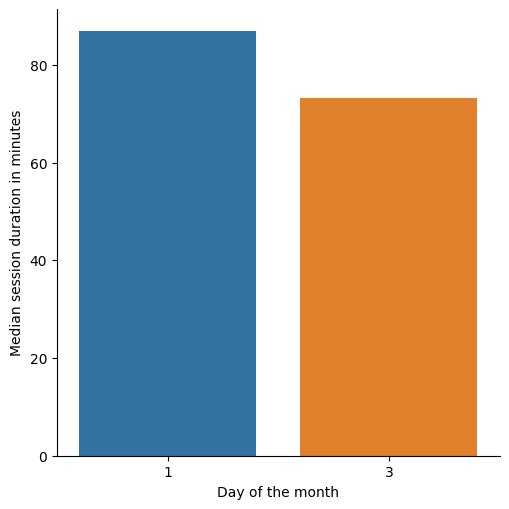
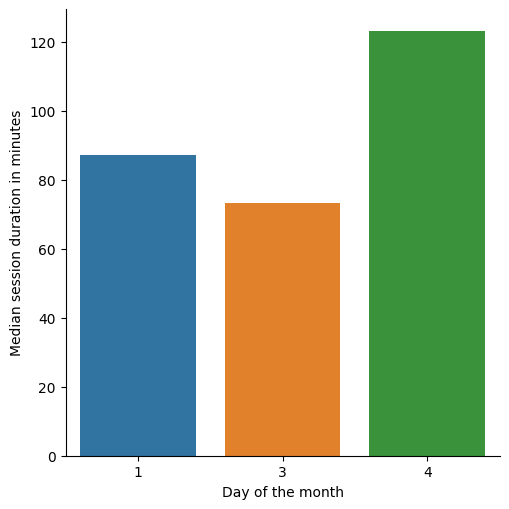
"Stats generated 2021-07-05"

diff --git a/all/2021/7/weekdays/6/index.html b/all/2021/7/weekdays/6/index.html
@@ -1,0 +1,29 @@
+<!DOCTYPE html>
+<html>
+  <head>
+    <meta charset="utf-8"/>
+    <title>Sundays July 2021</title>
+    <link rel="stylesheet" href="../../../../../styles.css"/>
+  </head>
+  <body>
+    <div id="container">
+      <nav>
+        <ul>
+          
+            <li><a href="../../">July 2021</a></li>
+            <li class="separator"></li>
+          
+          
+        </ul>
+      </nav>
+      <main>
+        <h1>Sundays July 2021</h1>
+        
+          <h2>Number of sessions per hour</h2>
+          <img src="sessions.png" alt="Number of sessions per hour"/>
+        
+        
+      </main>
+    </div>
+  </body>
+</html>

diff --git a/all/2021/7/days/4/index.html b/all/2021/7/days/4/index.html
@@ -1,0 +1,29 @@
+<!DOCTYPE html>
+<html>
+  <head>
+    <meta charset="utf-8"/>
+    <title>4 July 2021</title>
+    <link rel="stylesheet" href="../../../../../styles.css"/>
+  </head>
+  <body>
+    <div id="container">
+      <nav>
+        <ul>
+          
+            <li><a href="../../">July 2021</a></li>
+            <li class="separator"></li>
+          
+          
+        </ul>
+      </nav>
+      <main>
+        <h1>4 July 2021</h1>
+        
+          <h2>Number of sessions per hour</h2>
+          <img src="sessions.png" alt="Number of sessions per hour"/>
+        
+        
+      </main>
+    </div>
+  </body>
+</html>

diff --git a/all/2021/7/index.html b/all/2021/7/index.html
@@ -27,6 +27,10 @@
             
           
             
+              <li><a href="weekdays/6/">Sunday</a></li>
+            
+          
+            
               <li><span>Day of Month</span></li>
             
           
@@ -36,6 +40,10 @@
           
             
               <li><a href="days/3/">3</a></li>
+            
+          
+            
+              <li><a href="days/4/">4</a></li>
             
           
         </ul>

diff --git a/all/2021/index.html b/all/2021/index.html
@@ -121,9 +121,9 @@
                   
                     <td>7.0</td>
                   
-                    <td>4.0</td>
+                    <td>5.0</td>
                   
-                    <td>80.14818501666667</td>
+                    <td>87.0559444</td>
                   
                 </tr>
               
